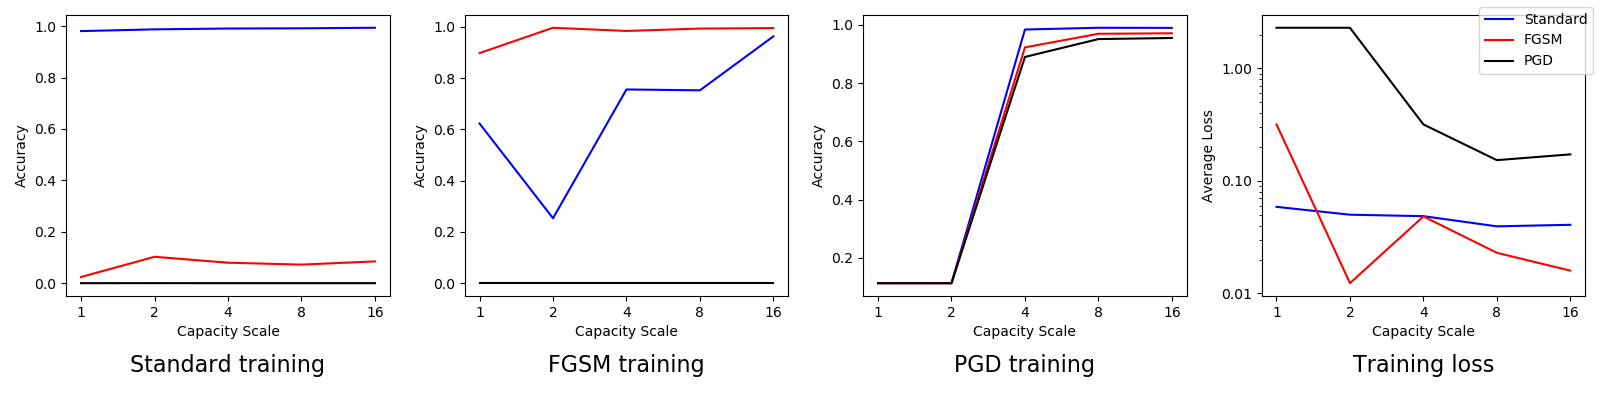
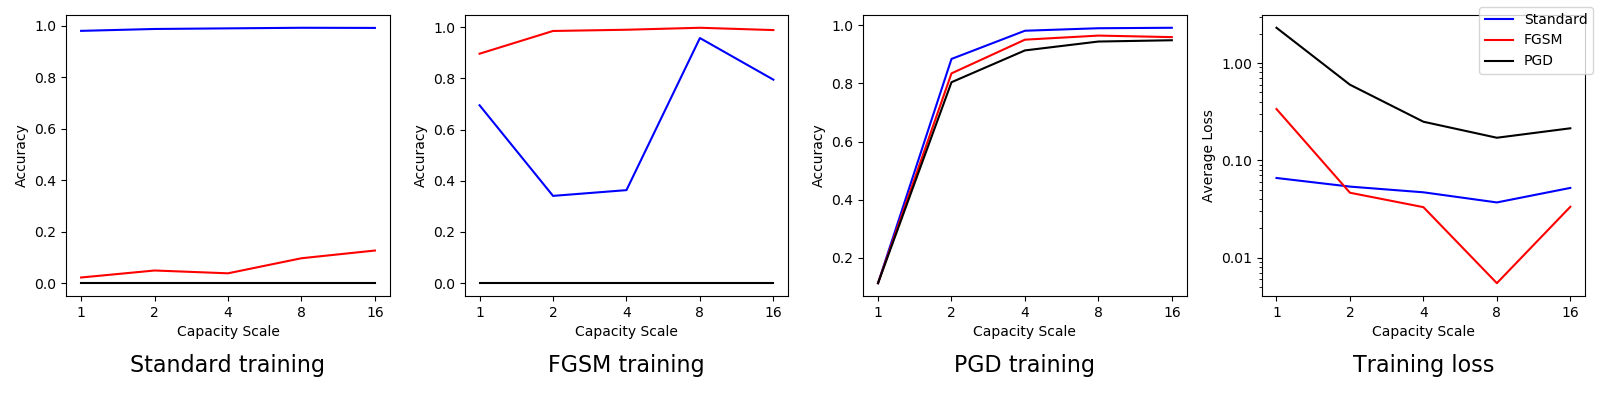
1

diff --git a/experiments/results/results.md b/experiments/results/results.md
@@ -46,9 +46,11 @@ the training and see if it was just an outlier.
 
 ## Thoughts
 
-Overall these look very similar.  We seem to bottom out and start
+Overall these look kind of similar.  We seem to bottom out and start
 rising in loss earlier than they do and at a slightly higher loss.
 That seems suspicious to me, I should double-check the training code.
+
+The difference is less than it looks like because of the log scale.
 
 (This might also explain the persistently-slightly-higher loss in
 Experiment 3 if there's some training difference.)
